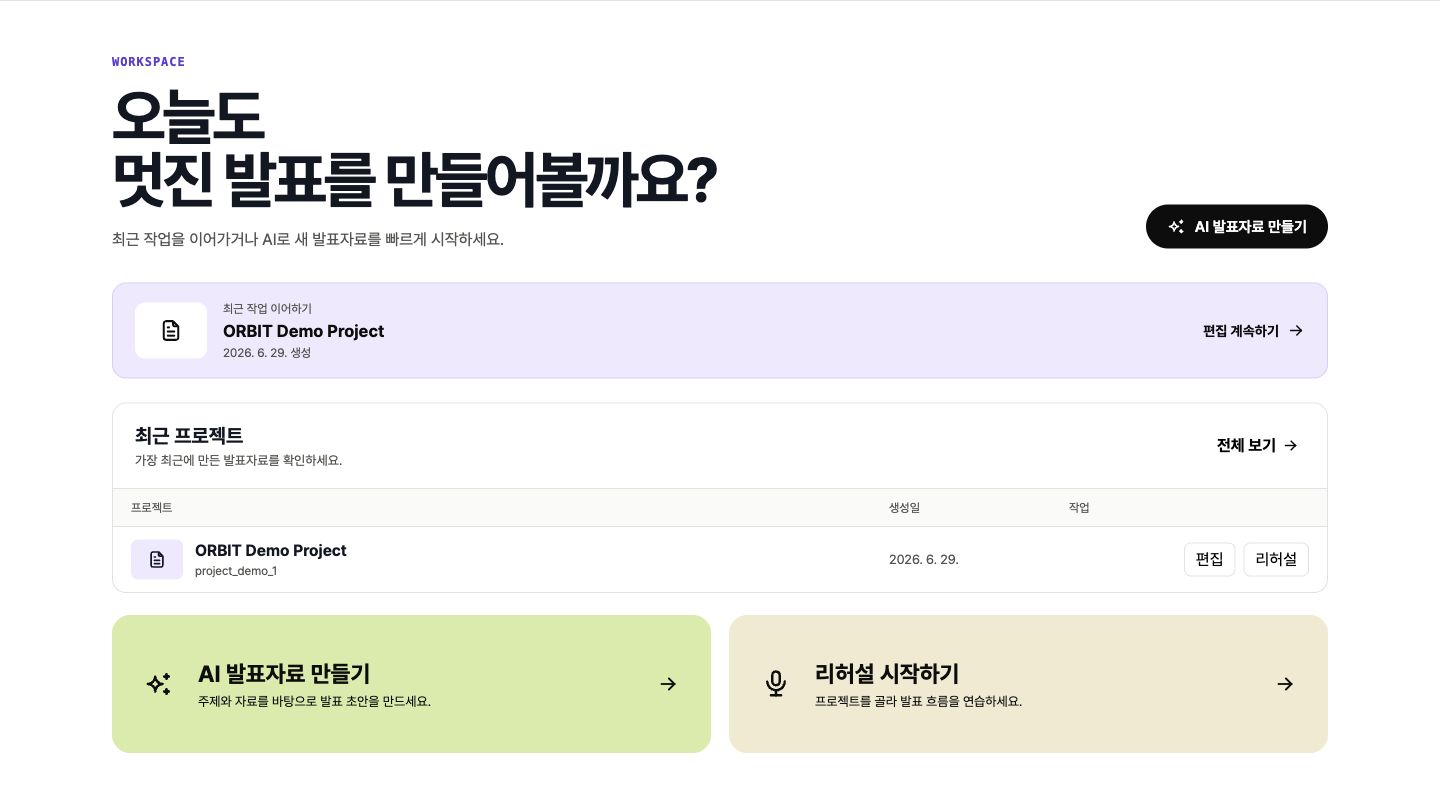
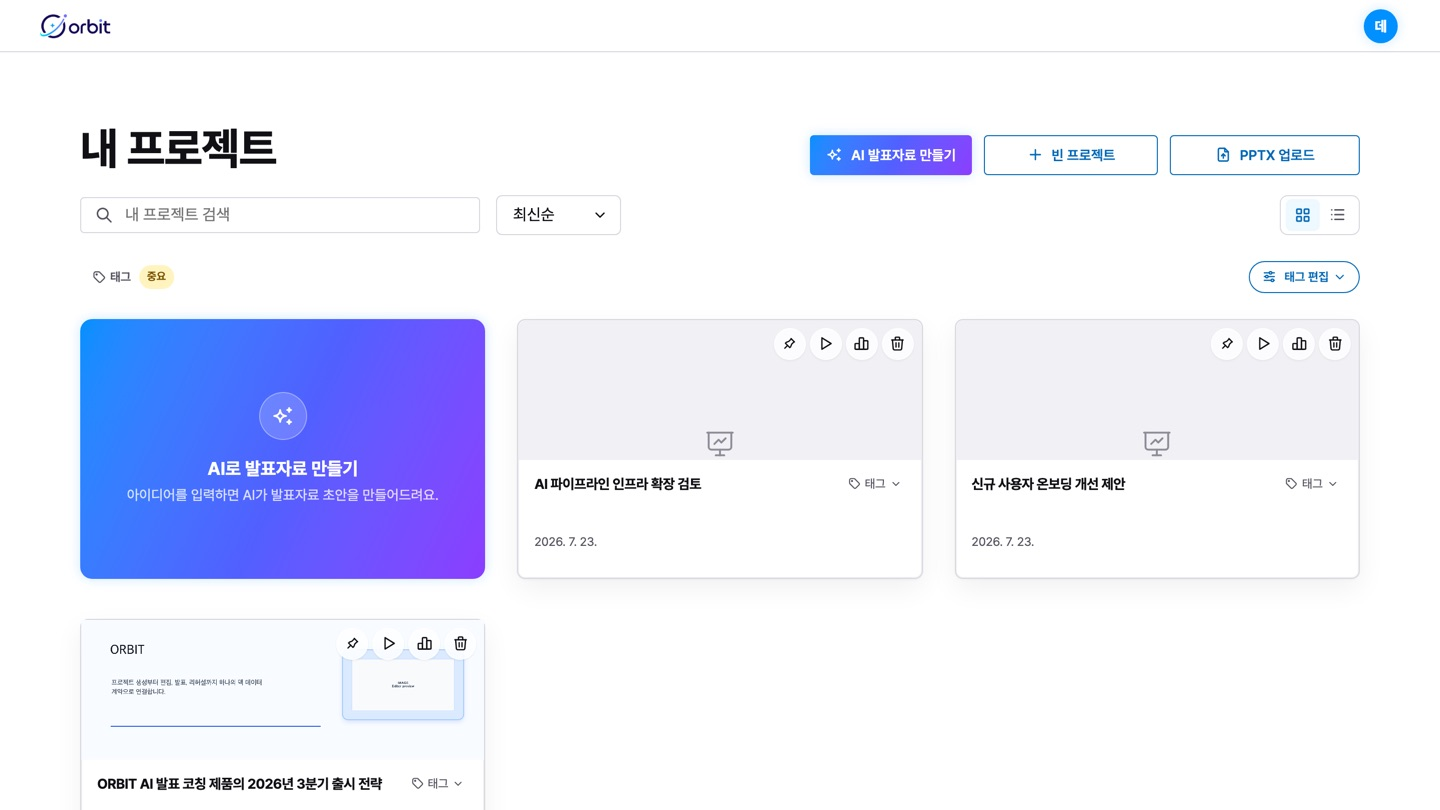
docs: README 제품 소개와 테마별 로고 개선

diff --git a/README.md b/README.md
@@ -1,5 +1,8 @@
 <div align="center">
-  <img src="./apps/web/src/assets/orbit-logo.png" alt="ORBIT 로고" width="156" />
+  <picture>
+    <source media="(prefers-color-scheme: dark)" srcset="./docs/assets/readme/orbit-logo-dark.png" />
+    <img src="./docs/assets/readme/orbit-logo-light.png" alt="ORBIT 로고" width="200" />
+  </picture>
   <h1>ORBIT</h1>
   <p><strong>발표를 만드는 순간부터, 무대에 오르는 순간까지.</strong></p>
   <p>
@@ -26,7 +29,7 @@
 <p align="center">
   <img
     src="./docs/assets/readme/orbit-product-hero.jpg"
-    alt="최근 프로젝트와 AI 발표자료 만들기, 리허설 시작하기가 보이는 ORBIT 작업 공간"
+    alt="내 프로젝트 목록과 AI 발표자료 만들기, 최근 프로젝트 카드가 보이는 ORBIT 작업 공간"
     width="100%"
   />
 </p>
@@ -54,22 +57,22 @@ flowchart LR
     <td width="50%" valign="top">
       <img
         src="./docs/assets/readme/orbit-create-flow.jpg"
-        alt="발표 주제, 목적, 청중과 발표 시간을 입력한 ORBIT AI 발표자료 생성 화면"
+        alt="발표 주제, 타깃 청중, 상세 내용과 대본 톤을 입력한 ORBIT AI 발표자료 생성 화면"
         width="100%"
       />
       <br />
       <strong>AI 발표자료 생성</strong><br />
-      발표 목적, 청중, 핵심 메시지와 참고자료를 입력하고 Design Pack 기반의 Deck을 생성합니다.
+      발표 목적, 청중, 핵심 메시지와 참고자료를 입력해 Design Pack 기반의 Deck을 생성합니다. 기존 PPTX 가져오기나 빈 프로젝트로 시작할 수도 있습니다.
     </td>
     <td width="50%" valign="top">
       <img
         src="./docs/assets/readme/orbit-editor.jpg"
-        alt="슬라이드 목록, Canvas와 AI 도구 패널로 구성된 ORBIT 에디터"
+        alt="슬라이드 목록, Canvas와 AI 어시스턴트 패널로 구성된 ORBIT 에디터"
         width="100%"
       />
       <br />
       <strong>Canvas 편집</strong><br />
-      Konva 기반 에디터에서 슬라이드를 다듬고 AI 코치, 디자인, 발표 메모를 같은 작업 공간에서 관리합니다.
+      Konva 기반 에디터에서 슬라이드를 다듬고 AI 코치, 디자인, 발표 메모를 같은 작업 공간에서 관리합니다. 완성한 Deck은 PPTX로 내보낼 수 있습니다.
     </td>
   </tr>
   <tr>
@@ -96,7 +99,7 @@ flowchart LR
   </tr>
 </table>
 
-준비가 끝난 Deck은 발표자 화면과 청중 화면에 동기화해 실전 발표로 이어집니다.
+준비가 끝난 Deck은 발표자 화면과 청중 화면에 동기화하고, QR로 입장한 청중과 실시간 투표·평점·자유 응답 같은 활동 슬라이드로 상호작용하며 실전 발표로 이어집니다. 만든 Deck은 커뮤니티 템플릿으로 공유하거나 갤러리에서 다른 사용자의 템플릿을 가져와 시작할 수 있습니다.
 
 ### 로컬 우선으로 설계했습니다
 